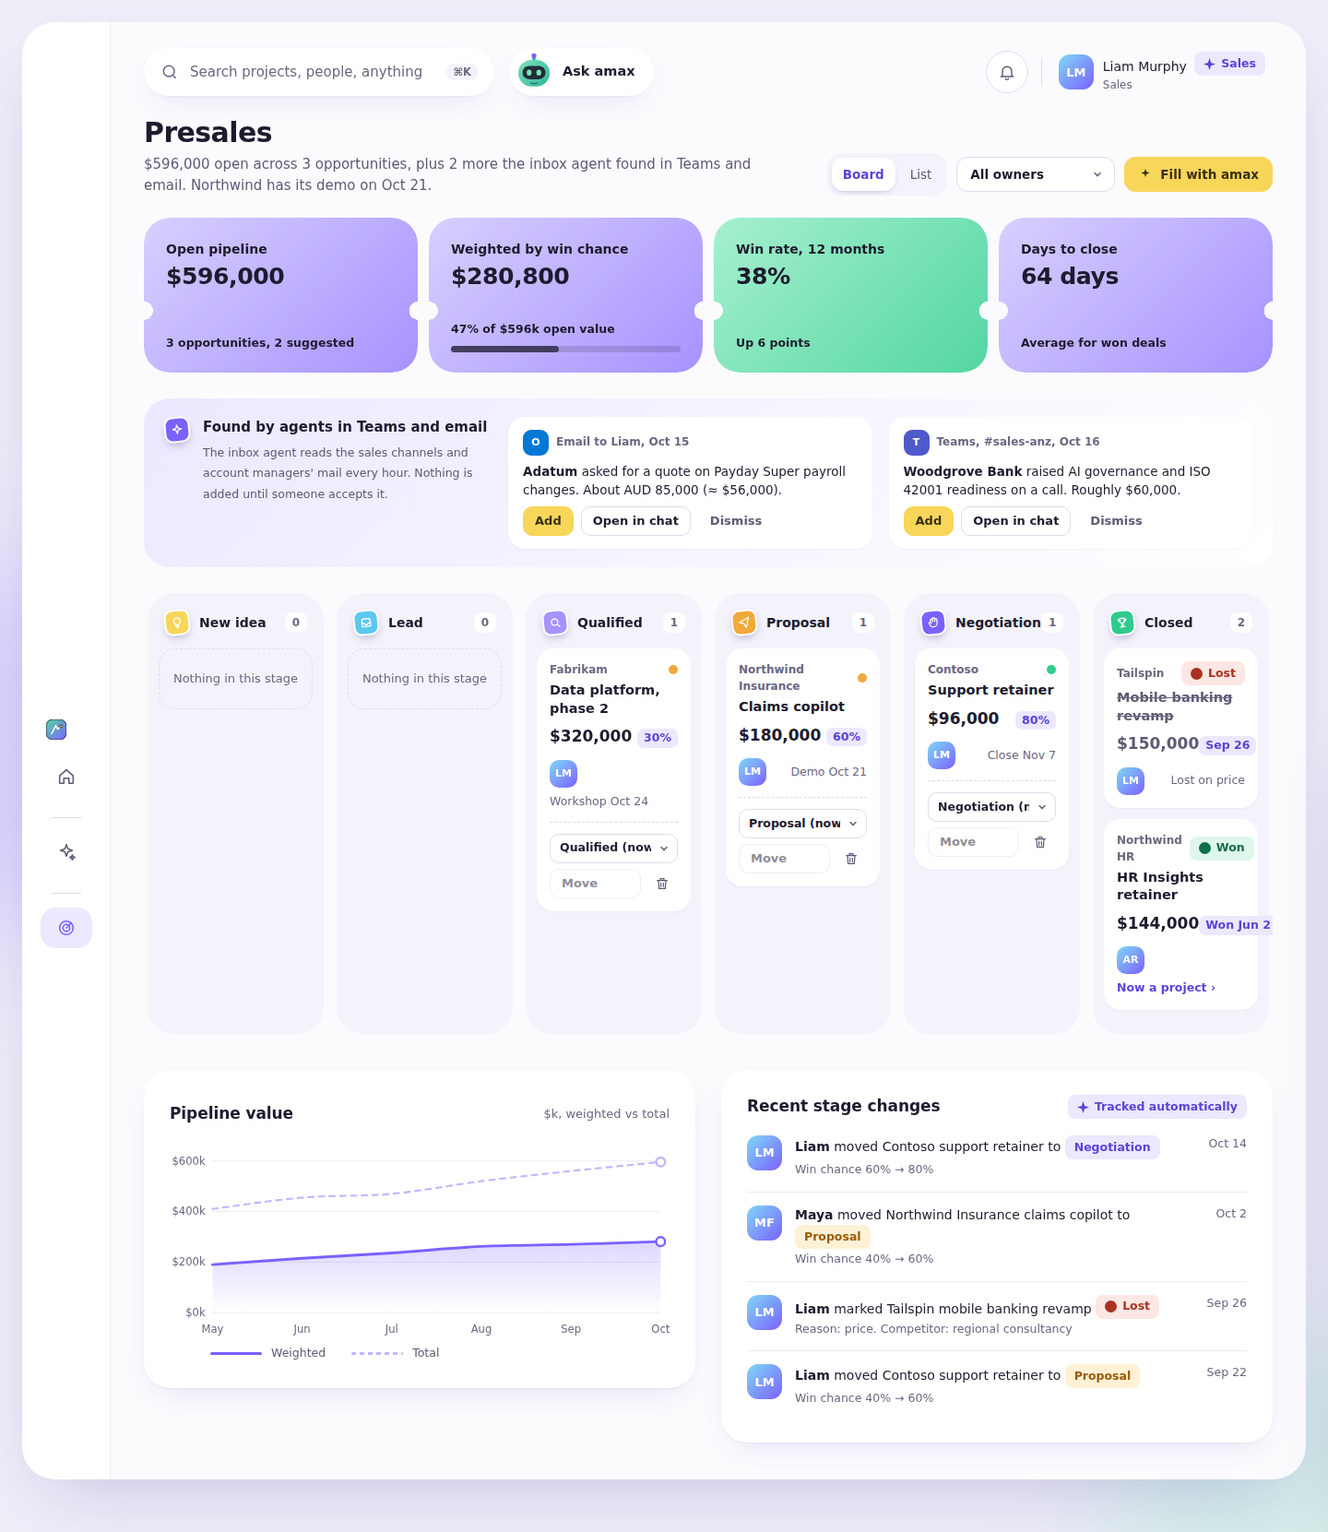
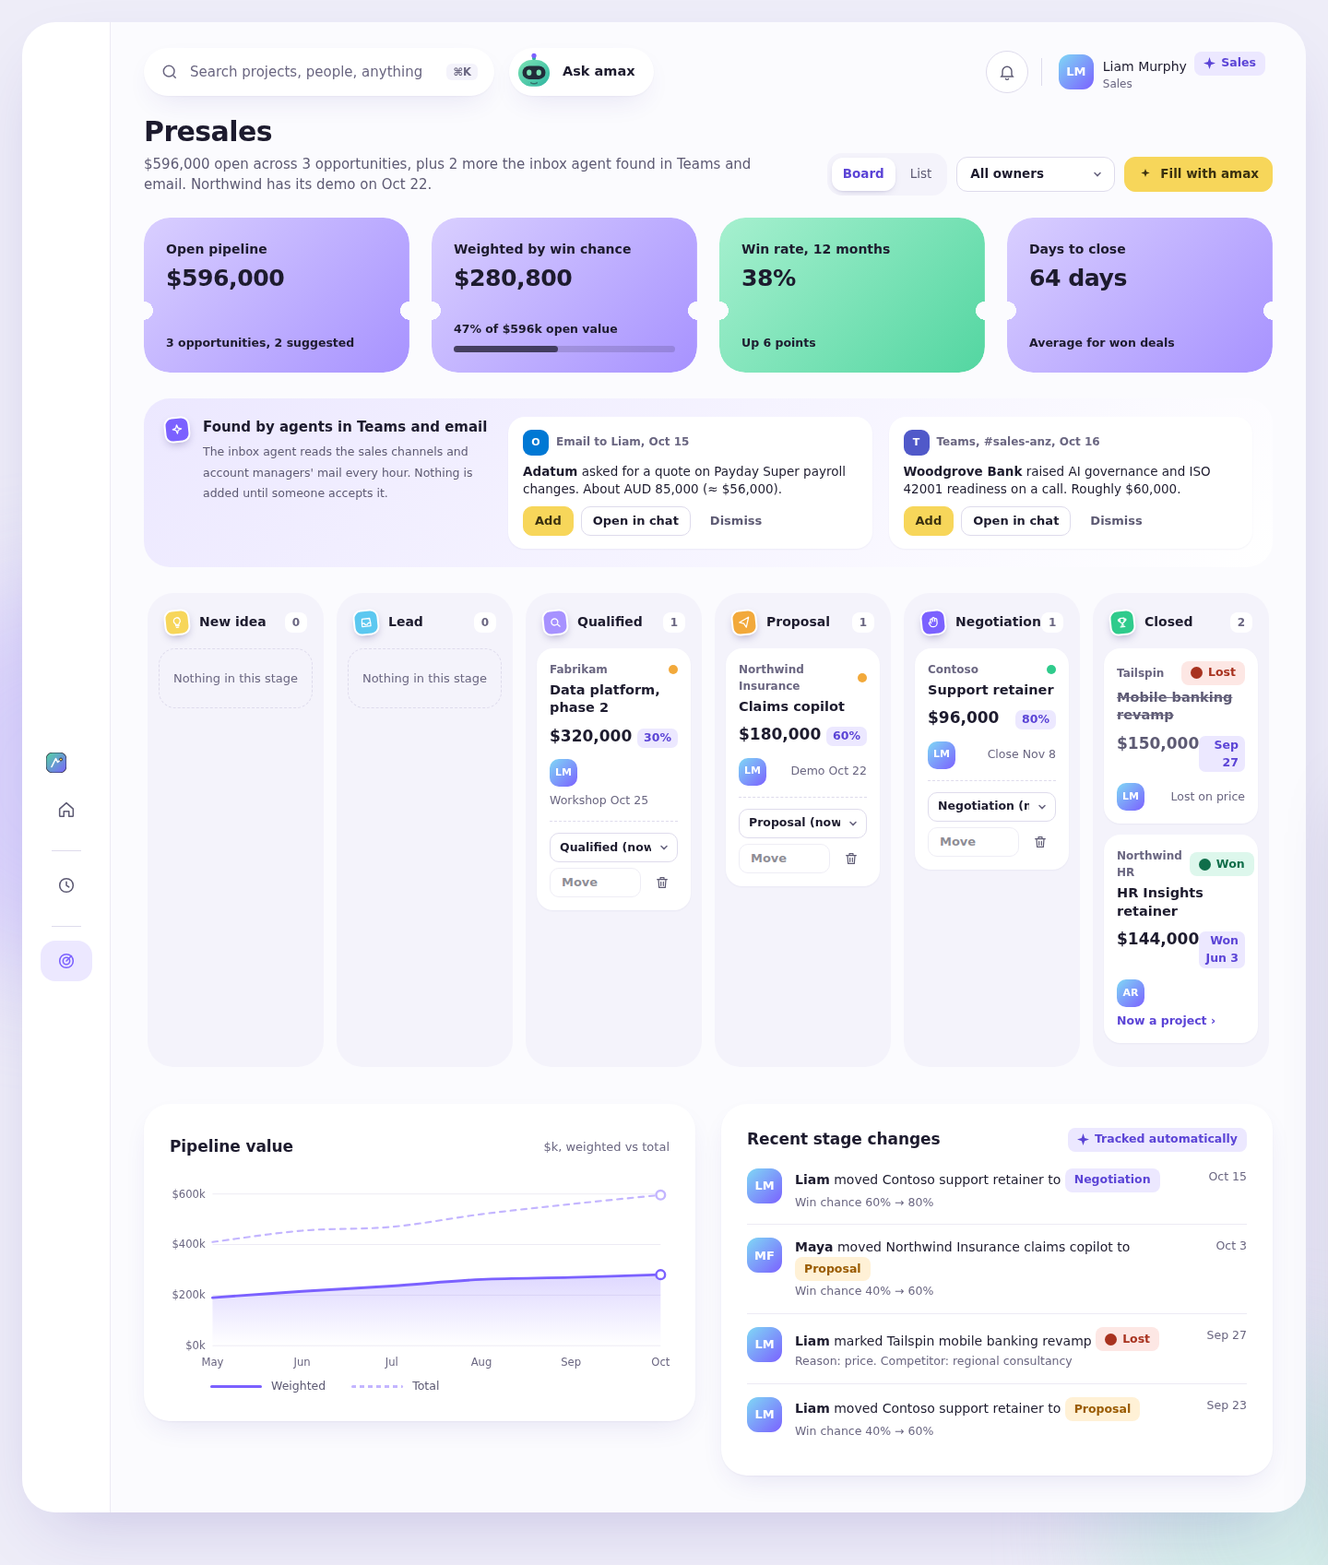
fix(review-r5): lasting refusals by kind, whole create input fingerprints a claim series
- Any non-retryable refusal after delivery made the project (its answer doesn't name the key, the
  claim moved on, the project belongs to another opportunity) frees the claim, not only 23505.
- A claim series is fingerprinted by key, billing, title and client; a resume with any change ends
  the series if it made nothing, else is refused.
- recordPromotion's already-linked return reports the stored key.
- Tests: key and billing takeover table, made versus not made. Remaining items in follow-ups.md.

diff --git a/modules/presales/server/claim.ts b/modules/presales/server/claim.ts
@@ -5,12 +5,21 @@ import { claimKey, defineService } from "@amax/core/server";
 import { EVENTS, numberOf, type OpportunityPromoted } from "../contracts";
 import { actorOf, lockOpportunity, NUMBER } from "./common";
 
+/** A refusal that a replay of the same project would meet again: not worth keeping the claim for. */
+export class PromotionRefused extends Error {
+  readonly retryable = false;
+  constructor(message: string) {
+    super(message);
+    this.name = "PromotionRefused";
+  }
+}
+
 /** How long a promotion attempt holds its claim before a retry may resume or replace it. */
 export const CLAIM_SECONDS = 120;
 
 /**
- * The idempotency key delivery's create runs under. A claim series is one key and one billing for
- * one opportunity: resumes keep it, so they get back the project the series made; a release or a
+ * The idempotency key delivery's create runs under. A claim series is one create input (key, billing,
+ * name, client) for one opportunity: resumes keep it, so they get back the project the series made; a release or a
  * takeover ends it.
  */
 export const createKey = (series: string) => `presales.promote:${series}`;
@@ -27,8 +36,8 @@ async function endSeries(tx: Tx, tenantId: string, series: string) {
 
 /**
  * Claims a won opportunity for promotion under its row lock, before delivery is asked for anything.
- * While a claim is fresh every other attempt is refused. A stale claim is resumed with the same key
- * and billing; it gives way to other inputs only if its series made nothing (ended here, so a slow
+ * While a claim is fresh every other attempt is refused. A stale claim is resumed when the create
+ * input is unchanged; it gives way to other inputs only if its series made nothing (ended here, so a slow
  * create from it can't land later).
  */
 export const claimPromotion = defineService({
@@ -40,13 +49,15 @@ export const claimPromotion = defineService({
     const o = await lockOpportunity(tx, input.number);
     if (o.stage !== "won") throw new Error(`${input.number} isn't won yet; only won opportunities become projects`);
     if (o.project_id) throw new Error(`${input.number} is already project ${o.project_key}`);
-    const same = o.claim_key === input.key && o.claim_billing === input.billing;
+    const [{ name: client }] = await tx.execute(sql`select name from presales.client where id = ${o.client_id}`);
+    const fingerprint = JSON.stringify([input.key, input.billing, o.title, client]);
+    const same = o.claim_fingerprint === fingerprint;
     if (o.claim_key) {
       const [{ fresh }] = await tx.execute(sql`select ${o.claimed_at}::timestamptz > now() - make_interval(secs => ${CLAIM_SECONDS}) as fresh`);
       if (fresh) throw new Error(`${input.number} is being promoted as ${o.claim_key} right now; try again in a couple of minutes`);
-      if (!same && !(await endSeries(tx, ctx.tenantId, o.claim_series as string))) throw new Error(`${input.number} was promoted as ${o.claim_key} (${o.claim_billing}); promote it with those to finish`);
+      if (!same && !(await endSeries(tx, ctx.tenantId, o.claim_series as string))) throw new Error(`${input.number} was promoted as ${o.claim_key}; promote it with the same key, billing, title and client to finish`);
     }
-    const [c] = await tx.execute(sql`update presales.opportunity set claim_key = ${input.key}, claim_billing = ${input.billing}, claim_token = gen_random_uuid(), claimed_at = now(),
+    const [c] = await tx.execute(sql`update presales.opportunity set claim_key = ${input.key}, claim_fingerprint = ${fingerprint}, claim_token = gen_random_uuid(), claimed_at = now(),
         claim_series = ${same ? sql`claim_series` : sql`gen_random_uuid()`} where id = ${o.id} returning claim_token, claim_series`);
     return { result: { token: c.claim_token as string, series: c.claim_series as string, resumed: same }, resourceId: o.id as string, before: { claim: o.claim_key }, after: { claim: input.key, billing: input.billing } };
   },
@@ -65,7 +76,7 @@ export const releasePromotion = defineService({
     const o = await lockOpportunity(tx, input.number);
     if (o.claim_token !== input.token) return { result: { released: false }, resourceId: o.id as string };
     if (!(await endSeries(tx, ctx.tenantId, o.claim_series as string)) && !input.force) return { result: { released: false }, resourceId: o.id as string };
-    await tx.execute(sql`update presales.opportunity set claim_key = null, claim_billing = null, claim_token = null, claim_series = null, claimed_at = null where id = ${o.id}`);
+    await tx.execute(sql`update presales.opportunity set claim_key = null, claim_fingerprint = null, claim_token = null, claim_series = null, claimed_at = null where id = ${o.id}`);
     return { result: { released: true }, resourceId: o.id as string, after: { released: true, force: input.force } };
   },
 });
@@ -78,10 +89,10 @@ export const recordPromotion = defineService({
   input: z.object({ number: z.string().regex(NUMBER), token: z.string().uuid(), projectId: z.string().uuid(), projectKey: z.string() }),
   async run(tx, input, ctx) {
     const o = await lockOpportunity(tx, input.number);
-    if (o.project_id === input.projectId) return { result: { number: input.number, projectKey: input.projectKey }, resourceId: o.id as string };
-    if (o.claim_token !== input.token || o.claim_key !== input.projectKey) throw new Error(`${input.number} is no longer claimed by this promotion; promote it again with ${input.projectKey}`);
+    if (o.project_id === input.projectId) return { result: { number: input.number, projectKey: o.project_key as string }, resourceId: o.id as string };
+    if (o.claim_token !== input.token || o.claim_key !== input.projectKey) throw new PromotionRefused(`${input.number} is no longer claimed by this promotion for ${input.projectKey}`);
     // The unique index on project_id refuses a project another opportunity already holds.
-    await tx.execute(sql`update presales.opportunity set project_id = ${input.projectId}, project_key = ${input.projectKey}, claim_key = null, claim_billing = null, claim_token = null, claim_series = null, claimed_at = null, updated_at = now() where id = ${o.id}`);
+    await tx.execute(sql`update presales.opportunity set project_id = ${input.projectId}, project_key = ${input.projectKey}, claim_key = null, claim_fingerprint = null, claim_token = null, claim_series = null, claimed_at = null, updated_at = now() where id = ${o.id}`);
     const [c] = await tx.execute(sql`select name from presales.client where id = ${o.client_id}`);
     const payload: OpportunityPromoted = {
       opportunityId: o.id as string, number: numberOf(Number(o.number)), projectId: input.projectId, projectKey: input.projectKey, by: actorOf(ctx), client: c.name as string,

diff --git a/modules/presales/tests/review.test.ts b/modules/presales/tests/review.test.ts
@@ -71,7 +71,6 @@ describe.skipIf(!hasDb)("review round 1 (Postgres)", () => {
     const go = (n: string) => promoteToDelivery(maya, { number: n, key: `X${n.slice(3)}`, billing: "fixed" }, { create: same }).then(() => "ok", (e: Error) => e.message);
     const outcomes = together ? await Promise.all([go(a), go(b)]) : [await go(a), await go(b)];
     expect(outcomes.filter((o) => o === "ok")).toHaveLength(1);
-    expect(outcomes.find((o) => o !== "ok")).toMatch(/already belongs to another opportunity/);
     const loser = outcomes[0] === "ok" ? b : a;
     const [l] = await db.q(sql`select claim_key, project_id from presales.opportunity where number = ${Number(loser.slice(3))}`);
     expect(l).toEqual({ claim_key: null, project_id: null });
@@ -106,7 +105,7 @@ describe.skipIf(!hasDb)("review round 1 (Postgres)", () => {
       await withIdempotency(createKey(claim.series), () => create(ctxFor(maya), { key, name: "x", client: "y", billing: "fixed" }));
     }
     await age(n);
-    await expect(promoteToDelivery(maya, { number: n, key: "ZZZ", billing: "fixed" }, { create })).rejects.toThrow(/promote it with those to finish/);
+    await expect(promoteToDelivery(maya, { number: n, key: "ZZZ", billing: "fixed" }, { create })).rejects.toThrow(/to finish/);
     await age(n);
     expect(await promoteToDelivery(maya, { number: n, key, billing: "fixed" }, { create })).toEqual({ number: n, projectKey: key });
     expect(await projects(key)).toBe(1);
@@ -124,12 +123,19 @@ describe.skipIf(!hasDb)("review round 1 (Postgres)", () => {
     expect(await promoteToDelivery(maya, { number: n, key: `R${n.slice(3)}`, billing: "retainer" }, { create: real() })).toMatchObject({ number: n });
   });
 
-  it("review round 4: a stale claim that made nothing gives way to another key or billing; one that made a project doesn't", async () => {
-    const n = await wonDeal("Switch deal");
-    await claimPromotion(ctxFor(maya), { number: n, key: "SWA", billing: "fixed" });
+  it.each([
+    ["another key", "SWB", "fixed", false], ["the same key, other billing", "SWA", "retainer", false], ["another key and billing", "SWC", "t&m", false],
+    ["another key", "SWB", "fixed", true], ["the same key, other billing", "SWA", "retainer", true], ["another key and billing", "SWC", "t&m", true],
+  ] as const)("review round 5: a stale claim moves to %s only if it made nothing (made a project: %s)", async (label, key, billing, madeOne) => {
+    const n = await wonDeal(`Switch ${label} ${madeOne}`);
+    const firstKey = `S${n.slice(3)}`;
+    const claim = await claimPromotion(ctxFor(maya), { number: n, key: firstKey, billing: "fixed" });
+    if (madeOne) await withIdempotency(createKey(claim.series), () => real()(ctxFor(maya), { key: firstKey, name: "x", client: "y", billing: "fixed" }));
     await age(n);
-    await expect(promoteToDelivery(maya, { number: n, key: "SWB", billing: "fixed" }, { create: real() })).resolves.toMatchObject({ projectKey: "SWB" });
-    expect(await projects("SWA")).toBe(0);
+    const next = { number: n, key: key === "SWA" ? firstKey : `${key}${n.slice(4)}`, billing };
+    if (madeOne) await expect(promoteToDelivery(maya, next, { create: real() })).rejects.toThrow(/to finish/);
+    else await expect(promoteToDelivery(maya, next, { create: real() })).resolves.toMatchObject({ number: n, projectKey: next.key });
+    expect(await projects(firstKey)).toBe(madeOne ? 1 : next.key === firstKey ? 1 : 0);
   });
 
   it("review round 3: a key held by another project is refused and the claim is given back", async () => {

diff --git a/modules/presales/server/promote.ts b/modules/presales/server/promote.ts
@@ -1,10 +1,10 @@
 import { z } from "zod";
 import { withTenant } from "@amax/db";
 import { can, type Viewer } from "@amax/auth";
-import { ForbiddenError, getRuntime, logError, withIdempotency, type Source } from "@amax/core/server";
+import { ForbiddenError, getRuntime, logError, retryable, withIdempotency, type Source } from "@amax/core/server";
 import * as delivery from "@amax/delivery/contracts";
 import { getOpportunityRef } from "../contracts";
-import { claimPromotion, createKey, recordPromotion, releasePromotion } from "./claim";
+import { claimPromotion, createKey, PromotionRefused, recordPromotion, releasePromotion } from "./claim";
 import { NUMBER } from "./common";
 import { ctxFor } from "./context";
 
@@ -31,7 +31,7 @@ export const promoteInput = z.object({ number: z.string().regex(NUMBER), key: z.
 const projectOf = (r: unknown, key: string) => {
   const v = r as { id?: string; resourceId?: string | null; key?: string | null };
   const id = v.id ?? v.resourceId;
-  if (!id || !v.key) throw new Error(`delivery didn't say which project it made for ${key}`);
+  if (!id || v.key !== key) throw new PromotionRefused(`delivery's answer doesn't name project ${key}`);
   return { id, key: v.key };
 };
 
@@ -57,16 +57,11 @@ export async function promoteToDelivery(viewer: Viewer, raw: unknown, opts: { so
     if (!created.ok) throw created.error;
     made = true;
     const project = projectOf(created.value, input.key);
-    return await recordPromotion(ctx, { number: input.number, token: claim.token, projectId: project.id, projectKey: project.key }).catch((e: unknown) => {
-      // A project another opportunity holds will be refused on every replay: free the claim and say which project is left over.
-      if ((e as { cause?: { code?: string }; code?: string }).code === "23505" || (e as { cause?: { code?: string } }).cause?.code === "23505") {
-        throw Object.assign(new Error(`delivery's project ${project.key} already belongs to another opportunity, so it wasn't linked; choose another key`), { project, lasting: true });
-      }
-      throw e;
-    });
+    return await recordPromotion(ctx, { number: input.number, token: claim.token, projectId: project.id, projectKey: project.key });
   } catch (e) {
-    // Release in one transaction with the check that the series made nothing (or for good, after a lasting refusal).
-    const lasting = Boolean((e as { lasting?: boolean }).lasting);
+    // Release in one transaction with the check that the series made nothing. A refusal every replay
+    // would meet again (delivery's answer, a project another opportunity holds) frees the claim too.
+    const lasting = made && !retryable(e);
     if (!made || lasting) await releasePromotion(ctx, { number: input.number, token: claim.token, force: lasting }).catch((r: unknown) => logError("presales.promote.release", r));
     throw e;
   }

diff --git a/.specclaw/changes/020-presales/change.md b/.specclaw/changes/020-presales/change.md
@@ -44,12 +44,12 @@ Presales board with Move, the opportunity page (stage history, win chance, activ
 
 **Verdict:** PASS
 - AC-1: pass — `tests/presales.test.ts` AC-1: nine `presales` tables, all RLS-forced (`tablesMissingRls` empty); Northwind's five history rows with who and when (Aug 4 → Oct 2, 10% → 60%); health amber from the open high-impact risk, red with an open high-impact issue, green once closed. e2e: board and opportunity page render it.
-- AC-2: pass — `tests/presales.test.ts` AC-2: a move is audited with before/after; Lost without a reason is refused, with one it closes and logs; closed deals can't move or be removed; promote creates a real delivery project through delivery's own `create_project` service (installed-module registry) and emits `presales.opportunity.promoted`; Sales can't promote; not-won is refused; without a delivery contract write it refuses cleanly. e2e: explicit Move (disabled until a stage is chosen), Move to Negotiation and the Mark as lost dialog. **Open:** delivery's `contracts.ts` doesn't export `createProject` yet, so in the app Promote is disabled with that reason until delivery publishes it (presales detects it; no code change needed here).
+- AC-2: pass — `tests/presales.test.ts` AC-2: a move is audited with before/after; Lost without a reason is refused, with one it closes and logs; closed deals can't move or be removed; promote claims the opportunity, creates a real delivery project through delivery's own `create_project` service under an idempotency key (so a retry never makes a second project), links it and emits `presales.opportunity.promoted`; `review.test.ts` covers races, resume and refusals; Sales can't promote; not-won is refused; without a delivery contract write it refuses cleanly. e2e: explicit Move (disabled until a stage is chosen), Move to Negotiation and the Mark as lost dialog. **Open:** delivery's `contracts.ts` doesn't export `createProject` yet, so in the app Promote is disabled with that reason until delivery publishes it (presales detects it; no code change needed here).
 - AC-3: pass — `chat.test.ts`: the "new opportunity" intent becomes a confirm card and confirming writes with source chat; `presales.test.ts` AC-3: AUD values keep amount/currency/rate with USD value, unknown currency refused, an agent's find is added only on accept; `contracts.test.ts`: $596,000 open, $280,800 weighted. e2e: lede, tickets ($596,000 · $280,800 · 38% · 64 days), lanes, Fill with amax opens chat in intent mode.
 - AC-4: pass — only `modules/presales/`, its CODEOWNERS line and the lockfile entry change; `contracts.ts` with contract tests; README, fixtures, manifest; `permissions.test.ts`: switch-off (nothing else imports it) and role grants; `check-graph` and `check-module-standard` ok. Finance (017) isn't used, so there is no optional integration to degrade.
 
-Commands (exit codes): `pnpm lint` 0 (includes graph check); `node scripts/check-module-standard.mjs` 0; `turbo run test` with `DATABASE_MIGRATE_URL` 0 (presales 4 files / 9 tests, every other package green); `pnpm --filter @amax/web build` 0; `pnpm --filter @amax/presales e2e` (DB `amax_e2e_020`, port 3520) 0, 4 flows, axe clean, Pipeline value card and Win chance card within 2% of the mock at 1440 px.
+Commands (exit codes): `pnpm lint` 0 (includes graph check); `node scripts/check-module-standard.mjs` 0; `turbo run test` with `DATABASE_MIGRATE_URL` 0 (presales 5 files / 37 tests, every other package green, including time after merging main); `pnpm --filter @amax/web build` 0; `pnpm --filter @amax/presales e2e` (DB `amax_e2e_020`, port 3520) 0, 4 flows, axe clean, Pipeline value card and Win chance card within 2% of the mock at 1440 px.
 `specclaw-preset-check .` 1 and `specclaw-quality-scan . --gate` 1, both also failing on `origin/main` (repo-wide comment/line-length convention; the two `high` functions are `modules/delivery/sync/specclaw.ts parse` and `apps/web/.../settings/ai/page.tsx`). Presales adds no `high` function; it follows the repo's existing comment style.
 Quality: 71 → 71 duplicated lines (repo-wide; presales accounts for 23: its `ctxFor` and MCP `tool()` helper mirror delivery's, which only a platform change could share, and two 6-line service headers). No refactor kept.
 Screenshots: `shots/app-board.png` vs `shots/mock-board.png`, `shots/app-opportunity.png` vs `shots/mock-opportunity.png`, region diffs `shots/{app,mock}-chart.png`, `shots/{app,mock}-win-chance.png`.
-Local review: run after the PR (operator request), recorded below.
+Local review (`specclaw-review`, Opus, operator-requested, capped at 5 rounds): rounds 1–5 each fixed and committed as `fix(review-rN)`. Rounds 3–5 escalated on the same theme (promote to delivery can't create the project inside presales' transaction); round 3 redesigned it around a claim plus core idempotency on delivery's create. The cap was reached with round 5's fixes committed but not re-reviewed, so `specclaw-review verdict` is not clean; what's left is in `follow-ups.md`.

diff --git a/.specclaw/changes/020-presales/follow-ups.md b/.specclaw/changes/020-presales/follow-ups.md
@@ -16,3 +16,12 @@ Deferred by the review loop: minors and pre-existing findings.
 - [minor B3] `modules/presales/server/promote.ts:63` If lookupKey throws inside the catch block, its error replaces the original failure `e`. The caller then sees a database error instead of the real reason the promotion failed. Catch the lookup failure, log it as 'release not attempted (unknown)', and rethrow `e`. (round 4) <!-- fp:b6aa4ecd93b9 -->
 - [minor B6] `modules/presales/server/promote.ts:34` projectOf falls back to the requested key when delivery's result, or a replayed result, has no key. The link is then recorded under a key delivery never confirmed. Fail closed when the key is missing, as the code already does for the id. (round 4) <!-- fp:385deee9146f -->
 - [minor B1] `modules/presales/server/claim.ts:58` A slow first attempt that has been overtaken gets 'is no longer claimed by this promotion; promote it again with SLO', even though the same-key retry already linked the opportunity to that same project. Following the advice then fails with 'already project SLO'. Fix: when the token doesn't match but the opportunity is already linked to input.projectId, return success, or say that it is done. (round 4) <!-- fp:c941b7fd347f -->
+- [minor B10] `modules/presales/server/claim.ts:81` The new idempotent early return in recordPromotion returns `input.projectKey` instead of the stored `o.project_key`, and it skips the token and claim check without leaving any audit `after` record. A caller with a stale token gets success that echoes whatever key it passed. Return `o.project_key`. (round 5) <!-- fp:f4e42f770fd3 -->
+
+## Left open after the 5-round local review cap (round 5 majors not re-reviewed)
+
+- Promote: no test blocks *inside* delivery's create (key claimed and row inserted, not committed) while a takeover or a same-key resume runs. The behaviour relies on core idempotency's `claimKey` waiting on the uncommitted key row, which core's own tests cover.
+- Promote: no table row for the loser of the shared-project race arriving through a resumed claim (replayed project, 23505, forced release).
+- Root cause of rounds 3–5 escalating: delivery's contract has no project creation yet, so promote can't create the project inside presales' transaction. When delivery publishes `createProject`, prefer a contract that accepts an external reference (opportunity id) or runs in the caller's transaction; the claim/series machinery can then shrink.
+- `presales.fx_rate` has no screen or tool to add or refresh rates, and `as_of` isn't checked for staleness.
+- The promote gate hard-codes delivery's `delivery:project:create` permission and finds `createProject` by an untyped lookup; take both from delivery's contract once published.
